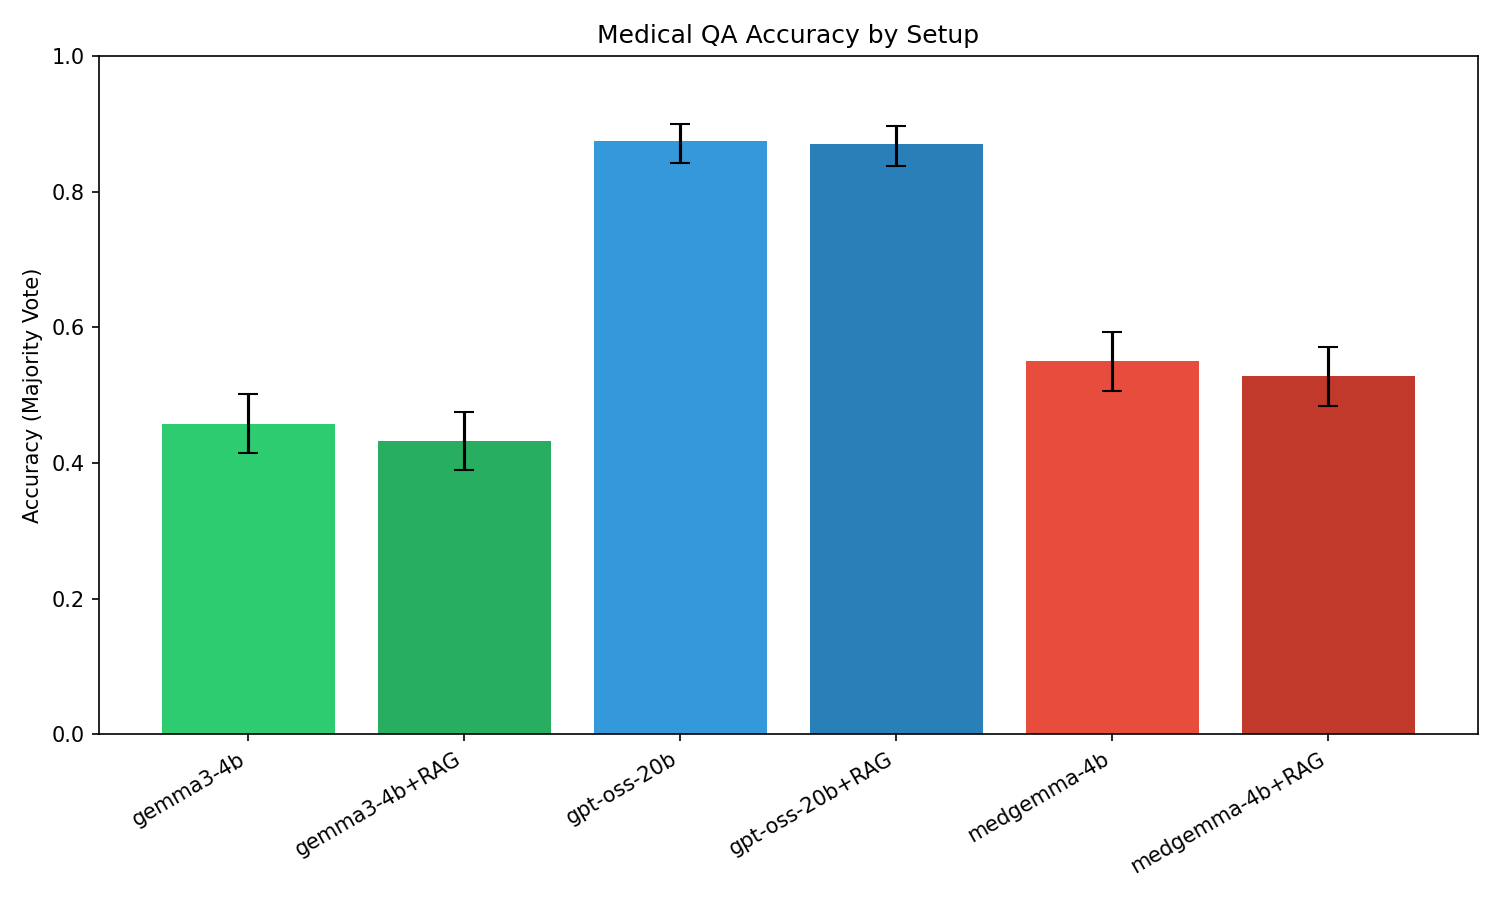
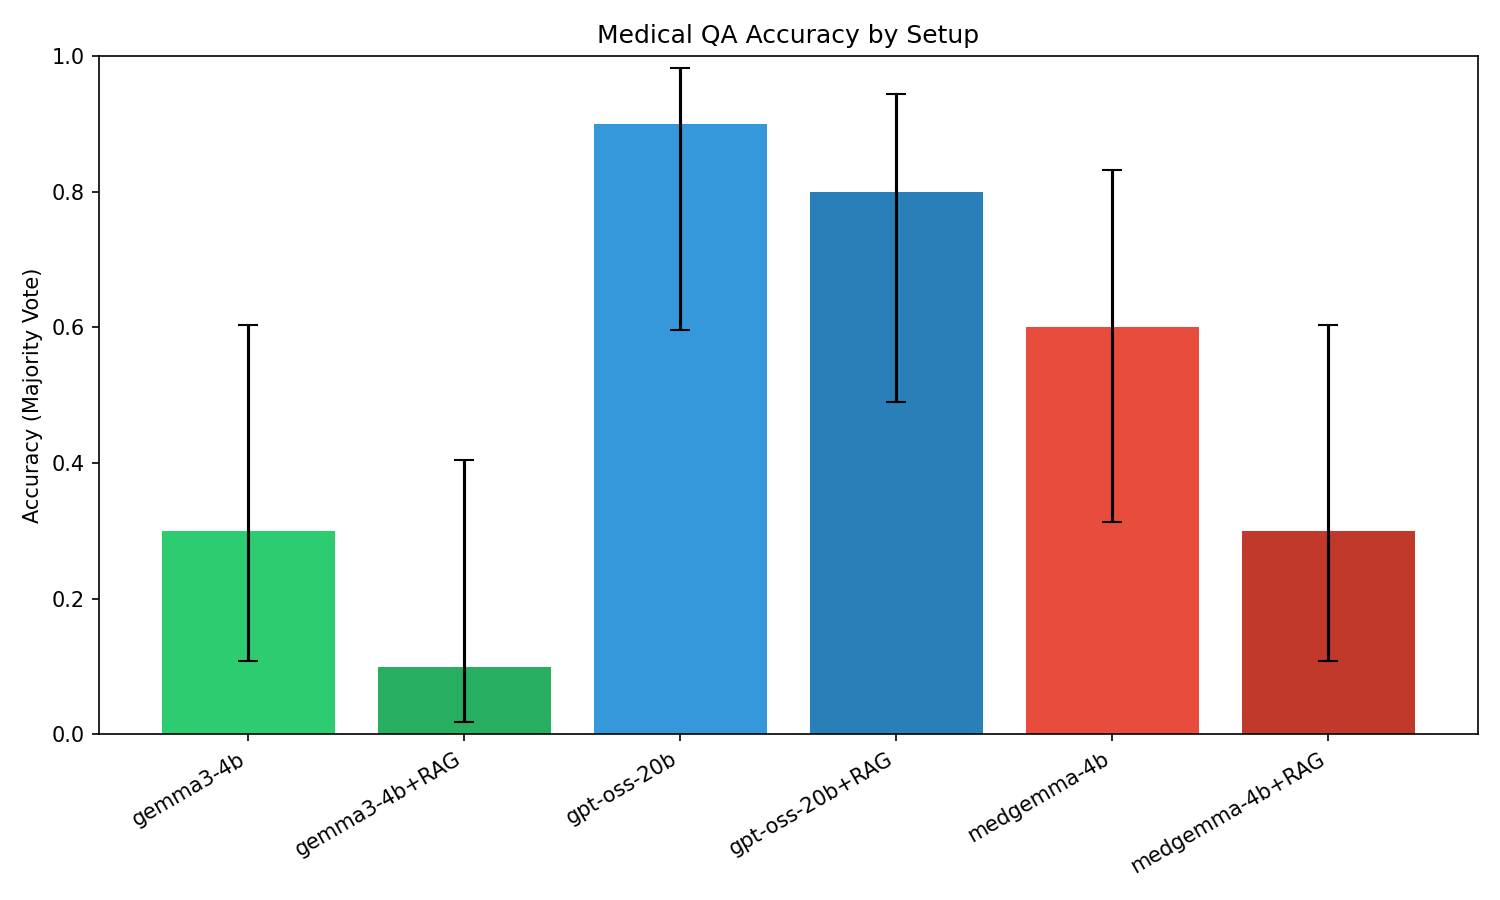
fix rag

diff --git a/src/rag/retriever.py b/src/rag/retriever.py
@@ -1,5 +1,7 @@
 from __future__ import annotations
 
+import re
+
 import chromadb
 
 from src.llm.client import generate_embedding
@@ -32,6 +34,43 @@ class Retriever:
         )
         results = self.collection.query(
             query_embeddings=[embedding],
-            n_results=k,
+            n_results=max(k * 3, k),
+            include=["documents", "distances"],
         )
-        return results["documents"][0] if results["documents"] else []
+        documents = results["documents"][0] if results["documents"] else []
+        distances = results["distances"][0] if results.get("distances") else [0.0] * len(documents)
+        if not documents:
+            return []
+
+        query_tokens = _token_set(question_text)
+        ranked: list[tuple[float, str]] = []
+        for doc, distance in zip(documents, distances):
+            overlap = _jaccard_overlap(query_tokens, _token_set(doc))
+            # Prefer semantic neighbors but penalize weak lexical overlap.
+            score = (1.0 - float(distance)) + (0.35 * overlap)
+            if overlap > 0:
+                ranked.append((score, doc))
+
+        if not ranked:
+            # Fallback: return best semantic matches if overlap filter is too strict.
+            return documents[:k]
+
+        ranked.sort(key=lambda x: x[0], reverse=True)
+        return [doc for _, doc in ranked[:k]]
+
+
+def _token_set(text: str) -> set[str]:
+    tokens = set(re.findall(r"[A-Za-z]{4,}", text.lower()))
+    stopwords = {
+        "with", "from", "that", "this", "which", "into", "about", "after", "before",
+        "would", "could", "should", "there", "their", "they", "them", "then", "than",
+        "have", "has", "were", "been", "being", "where", "when", "what", "your",
+        "question", "answer", "following", "option", "options",
+    }
+    return {t for t in tokens if t not in stopwords}
+
+
+def _jaccard_overlap(a: set[str], b: set[str]) -> float:
+    if not a or not b:
+        return 0.0
+    return len(a & b) / len(a | b)

diff --git a/src/rag/index.py b/src/rag/index.py
@@ -46,15 +46,21 @@ def load_textbook_corpus(cache_dir: str | None = None) -> list[dict[str, str]]:
         )
         corpus = []
         for idx, row in enumerate(ds):
-            options = row.get("options", {})
-            option_text = "\n".join(
-                f"{key}) {value}"
-                for key, value in sorted(options.items())
-                if isinstance(value, str) and value.strip()
-            )
-            text = f"Question: {row.get('question', '')}\nOptions:\n{option_text}"
-            if row.get("meta_info"):
-                text += f"\nContext: {row['meta_info']}"
+            # Avoid injecting A/B/C/D option lists into retrieval context because
+            # they can distract answer selection in downstream prompts.
+            question_text = str(row.get("question", "")).strip()
+            answer_text = str(row.get("answer", "")).strip()
+            meta_info = str(row.get("meta_info", "")).strip()
+
+            sections = []
+            if question_text:
+                sections.append(f"Clinical prompt: {question_text}")
+            if answer_text:
+                sections.append(f"Reference diagnosis/concept: {answer_text}")
+            if meta_info:
+                sections.append(f"Reference notes: {meta_info}")
+
+            text = "\n".join(sections)
             if text.strip():
                 corpus.append({"id": f"medqa_train_{idx}", "text": text.strip()})
         return corpus

diff --git a/results/report.md b/results/report.md
@@ -4,20 +4,20 @@
 What is more crucial for medical QA accuracy: model size, domain expertise, or retrieved knowledge?
 
 ## Setup Summary
-- **Questions**: 500
-- **Repetitions per question**: 3
-- **Total LLM calls**: 9000
+- **Questions**: 10
+- **Repetitions per question**: 1
+- **Total LLM calls**: 60
 
 ## Accuracy Results (Majority Vote)
 
 | setup_name      |   accuracy |   ci_lower |   ci_upper |   correct |   total |
 |:----------------|-----------:|-----------:|-----------:|----------:|--------:|
-| gemma3-4b       |     0.4580 |     0.4148 |     0.5018 |       229 |     500 |
-| gemma3-4b+RAG   |     0.4320 |     0.3893 |     0.4758 |       216 |     500 |
-| gpt-oss-20b     |     0.8740 |     0.8420 |     0.9003 |       437 |     500 |
-| gpt-oss-20b+RAG |     0.8700 |     0.8377 |     0.8967 |       435 |     500 |
-| medgemma-4b     |     0.5500 |     0.5062 |     0.5931 |       275 |     500 |
-| medgemma-4b+RAG |     0.5280 |     0.4842 |     0.5714 |       264 |     500 |
+| gemma3-4b       |     0.3000 |     0.1078 |     0.6032 |         3 |      10 |
+| gemma3-4b+RAG   |     0.1000 |     0.0179 |     0.4042 |         1 |      10 |
+| gpt-oss-20b     |     0.9000 |     0.5958 |     0.9821 |         9 |      10 |
+| gpt-oss-20b+RAG |     0.8000 |     0.4902 |     0.9433 |         8 |      10 |
+| medgemma-4b     |     0.6000 |     0.3127 |     0.8318 |         6 |      10 |
+| medgemma-4b+RAG |     0.3000 |     0.1078 |     0.6032 |         3 |      10 |
 
 ![Accuracy Comparison](accuracy_comparison.png)
 
@@ -25,23 +25,23 @@ What is more crucial for medical QA accuracy: model size, domain expertise, or r
 
 | setup_name      |   mean_accuracy |
 |:----------------|----------------:|
-| gemma3-4b       |          0.4580 |
-| gemma3-4b+RAG   |          0.4320 |
-| gpt-oss-20b     |          0.8560 |
-| gpt-oss-20b+RAG |          0.8560 |
-| medgemma-4b     |          0.5507 |
-| medgemma-4b+RAG |          0.5300 |
+| gemma3-4b       |          0.3000 |
+| gemma3-4b+RAG   |          0.1000 |
+| gpt-oss-20b     |          0.9000 |
+| gpt-oss-20b+RAG |          0.8000 |
+| medgemma-4b     |          0.6000 |
+| medgemma-4b+RAG |          0.3000 |
 
 ## Consistency (Agreement Across Repetitions)
 
 | setup_name      |   consistency |
 |:----------------|--------------:|
-| gemma3-4b       |        0.9960 |
-| gemma3-4b+RAG   |        0.9967 |
-| gpt-oss-20b     |        0.9480 |
-| gpt-oss-20b+RAG |        0.9427 |
-| medgemma-4b     |        0.9927 |
-| medgemma-4b+RAG |        0.9900 |
+| gemma3-4b       |        1.0000 |
+| gemma3-4b+RAG   |        1.0000 |
+| gpt-oss-20b     |        1.0000 |
+| gpt-oss-20b+RAG |        1.0000 |
+| medgemma-4b     |        1.0000 |
+| medgemma-4b+RAG |        1.0000 |
 
 ![Consistency Comparison](consistency_comparison.png)
 
@@ -51,30 +51,30 @@ What is more crucial for medical QA accuracy: model size, domain expertise, or r
 |:----------------|---------------------:|
 | gemma3-4b       |               0.0000 |
 | gemma3-4b+RAG   |               0.0000 |
-| gpt-oss-20b     |               0.0020 |
-| gpt-oss-20b+RAG |               0.0013 |
-| medgemma-4b     |               0.0007 |
+| gpt-oss-20b     |               0.0000 |
+| gpt-oss-20b+RAG |               0.0000 |
+| medgemma-4b     |               0.0000 |
 | medgemma-4b+RAG |               0.0000 |
 
 ## Pairwise Statistical Tests (McNemar's)
 
 | setup_a         | setup_b         |   a_only_correct |   b_only_correct |   statistic |   p_value | significant   |
 |:----------------|:----------------|-----------------:|-----------------:|------------:|----------:|:--------------|
-| gemma3-4b       | gemma3-4b+RAG   |               56 |               43 |      1.4545 |    0.2278 | False         |
-| gemma3-4b       | gpt-oss-20b     |               18 |              226 |    175.6107 |    0.0000 | True          |
-| gemma3-4b       | gpt-oss-20b+RAG |               19 |              225 |    172.2336 |    0.0000 | True          |
-| gemma3-4b       | medgemma-4b     |               56 |              102 |     12.8165 |    0.0003 | True          |
-| gemma3-4b       | medgemma-4b+RAG |               66 |              101 |      6.9222 |    0.0085 | True          |
-| gemma3-4b+RAG   | gpt-oss-20b     |               23 |              244 |    181.2734 |    0.0000 | True          |
-| gemma3-4b+RAG   | gpt-oss-20b+RAG |               21 |              240 |    182.0843 |    0.0000 | True          |
-| gemma3-4b+RAG   | medgemma-4b     |               59 |              118 |     19.0056 |    0.0000 | True          |
-| gemma3-4b+RAG   | medgemma-4b+RAG |               53 |              101 |     14.3442 |    0.0002 | True          |
-| gpt-oss-20b     | gpt-oss-20b+RAG |               22 |               20 |      0.0238 |    0.8774 | False         |
-| gpt-oss-20b     | medgemma-4b     |              182 |               20 |    128.3218 |    0.0000 | True          |
-| gpt-oss-20b     | medgemma-4b+RAG |              193 |               20 |    138.8920 |    0.0000 | True          |
-| gpt-oss-20b+RAG | medgemma-4b     |              179 |               19 |    127.6818 |    0.0000 | True          |
-| gpt-oss-20b+RAG | medgemma-4b+RAG |              188 |               17 |    140.9756 |    0.0000 | True          |
-| medgemma-4b     | medgemma-4b+RAG |               55 |               44 |      1.0101 |    0.3149 | False         |
+| gemma3-4b       | gemma3-4b+RAG   |                2 |                0 |      0.5000 |    0.4795 | False         |
+| gemma3-4b       | gpt-oss-20b     |                0 |                6 |      4.1667 |    0.0412 | True          |
+| gemma3-4b       | gpt-oss-20b+RAG |                0 |                5 |      3.2000 |    0.0736 | False         |
+| gemma3-4b       | medgemma-4b     |                0 |                3 |      1.3333 |    0.2482 | False         |
+| gemma3-4b       | medgemma-4b+RAG |                2 |                2 |      0.2500 |    0.6171 | False         |
+| gemma3-4b+RAG   | gpt-oss-20b     |                0 |                8 |      6.1250 |    0.0133 | True          |
+| gemma3-4b+RAG   | gpt-oss-20b+RAG |                0 |                7 |      5.1429 |    0.0233 | True          |
+| gemma3-4b+RAG   | medgemma-4b     |                0 |                5 |      3.2000 |    0.0736 | False         |
+| gemma3-4b+RAG   | medgemma-4b+RAG |                0 |                2 |      0.5000 |    0.4795 | False         |
+| gpt-oss-20b     | gpt-oss-20b+RAG |                1 |                0 |      0.0000 |    1.0000 | False         |
+| gpt-oss-20b     | medgemma-4b     |                3 |                0 |      1.3333 |    0.2482 | False         |
+| gpt-oss-20b     | medgemma-4b+RAG |                6 |                0 |      4.1667 |    0.0412 | True          |
+| gpt-oss-20b+RAG | medgemma-4b     |                2 |                0 |      0.5000 |    0.4795 | False         |
+| gpt-oss-20b+RAG | medgemma-4b+RAG |                5 |                0 |      3.2000 |    0.0736 | False         |
+| medgemma-4b     | medgemma-4b+RAG |                3 |                0 |      1.3333 |    0.2482 | False         |
 
 ![Pairwise Significance](pairwise_significance.png)
 
@@ -82,6 +82,6 @@ What is more crucial for medical QA accuracy: model size, domain expertise, or r
 
 | setup_a     | setup_b         |   a_only_correct |   b_only_correct |   statistic |   p_value | significant   |
 |:------------|:----------------|-----------------:|-----------------:|------------:|----------:|:--------------|
-| gemma3-4b   | gemma3-4b+RAG   |               56 |               43 |      1.4545 |    0.2278 | False         |
-| gpt-oss-20b | gpt-oss-20b+RAG |               22 |               20 |      0.0238 |    0.8774 | False         |
-| medgemma-4b | medgemma-4b+RAG |               55 |               44 |      1.0101 |    0.3149 | False         |
+| gemma3-4b   | gemma3-4b+RAG   |                2 |                0 |      0.5000 |    0.4795 | False         |
+| gpt-oss-20b | gpt-oss-20b+RAG |                1 |                0 |      0.0000 |    1.0000 | False         |
+| medgemma-4b | medgemma-4b+RAG |                3 |                0 |      1.3333 |    0.2482 | False         |
